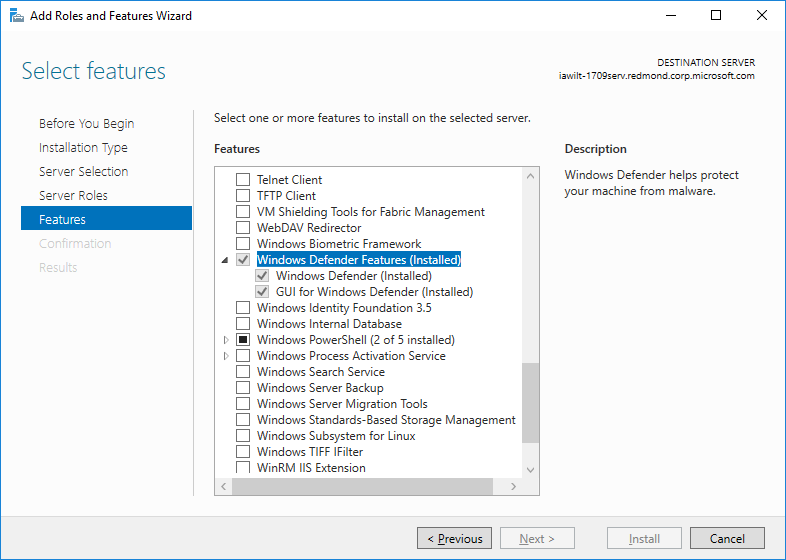
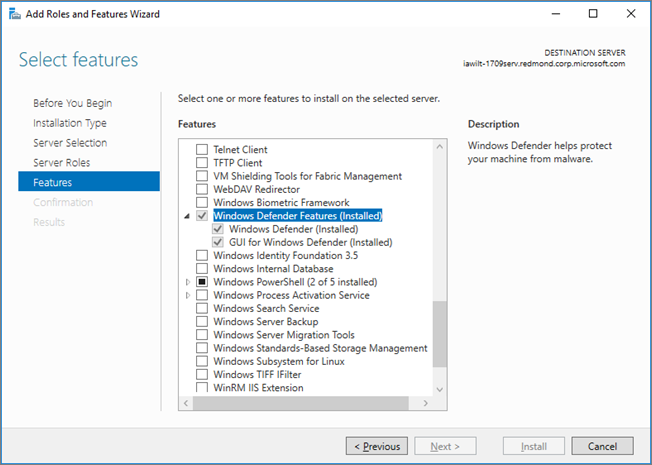
WDAV on Windows Server

diff --git a/windows/security/threat-protection/windows-defender-antivirus/windows-defender-antivirus-on-windows-server-2016.md b/windows/security/threat-protection/windows-defender-antivirus/windows-defender-antivirus-on-windows-server-2016.md
@@ -57,7 +57,13 @@ By default, Windows Defender Antivirus is installed and functional on Windows Se
 
 2. When you get to the **Features** step of the wizard, under **Windows Defender Features**, select the **GUI for Windows Defender** option.
 
+In Windows Server 2016, the **Add Roles and Features Wizard** looks like this:
+
 ![Add roles and feature wizard showing the GUI for Windows Defender option](images/server-add-gui.png)
+
+In Windows Server 2019, the **Add Roles and Feature Wizard** looks like this:
+
+![Add roles and features wizard Windows Server 2019](images/WDAV-WinSvr2019-turnfeatureson.jpg)
 
 ### Turn on the GUI using PowerShell
 
@@ -69,7 +75,7 @@ Install-WindowsFeature -Name Windows-Defender-GUI
 
 ## Install Windows Defender Antivirus on Windows Server 2016 or 2019
 
-You can use the **Add Roles and Features Wizard** or PowerShell to install Windows Defender Antivirus.
+You can use either the **Add Roles and Features Wizard** or PowerShell to install Windows Defender Antivirus.
 
 ### Use the Add Roles and Features Wizard
 
@@ -79,12 +85,13 @@ You can use the **Add Roles and Features Wizard** or PowerShell to install Windo
 
 ### Use PowerShell
 
+To use PowerShell to install Windows Defender Antivirus, run the following cmdlet:
+
 ```PowerShell
 Install-WindowsFeature -Name Windows-Defender
 ```
 
-> [!TIP]
-> Event messages for the antimalware engine included with Windows Defender Antivirus can be found in [Windows Defender AV Events](troubleshoot-windows-defender-antivirus.md).
+Event messages for the antimalware engine included with Windows Defender Antivirus can be found in [Windows Defender AV Events](troubleshoot-windows-defender-antivirus.md).
 
 
 ## Verify Windows Defender Antivirus is running
@@ -139,9 +146,14 @@ The following table lists the services for Windows Defender Antivirus and the de
 
 ## Submit samples
 
-To submit a file, review the [submission guide](https://docs.microsoft.com/windows/security/threat-protection/intelligence/submission-guide), and then visit the [sample submission portal](https://www.microsoft.com/wdsi/filesubmission)
-
 Sample submission allows Microsoft to collect samples of potentially malicious software. To help provide continued and up-to-date protection, Microsoft researchers use these samples to analyze suspicious activities and produce updated antimalware Security intelligence. We collect program executable files, such as .exe files and .dll files. We do not collect files that contain personal data, like Microsoft Word documents and PDF files.
+
+### Submit a file
+
+1. Review the [submission guide](https://docs.microsoft.com/windows/security/threat-protection/intelligence/submission-guide).
+
+2. Visit the [sample submission portal](https://www.microsoft.com/wdsi/filesubmission), and submit your file.
+
 
 ### Enable automatic sample submission
 
@@ -158,7 +170,7 @@ To enable automatic sample submission, start a Windows PowerShell console as an 
 
 To help ensure security and performance, certain exclusions are automatically added based on the roles and features you install when using Windows Defender Antivirus on Windows Server 2016 or 2019.
 
-See [Configure exclusions in Windows Defender AV on Windows Server](configure-server-exclusions-windows-defender-antivirus.md). 
+See [Configure exclusions in Windows Defender Antivirus on Windows Server](configure-server-exclusions-windows-defender-antivirus.md). 
 
 ## Need to uninstall Windows Defender Antivirus?
 
